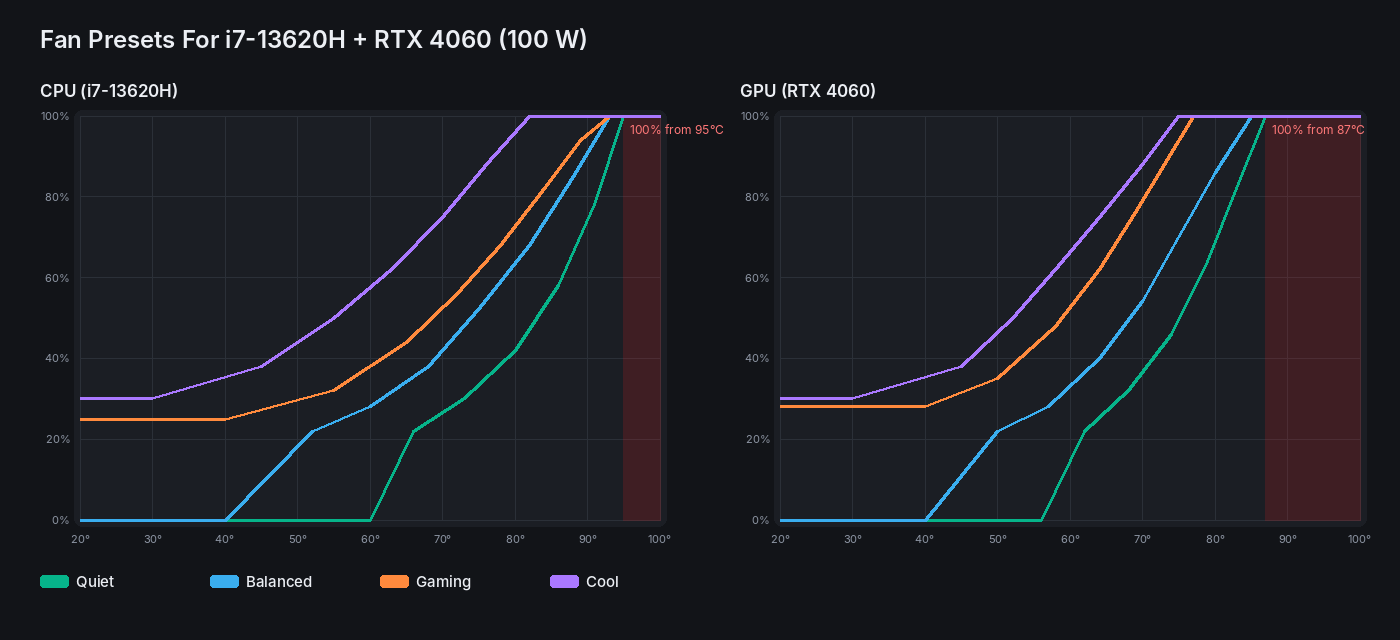
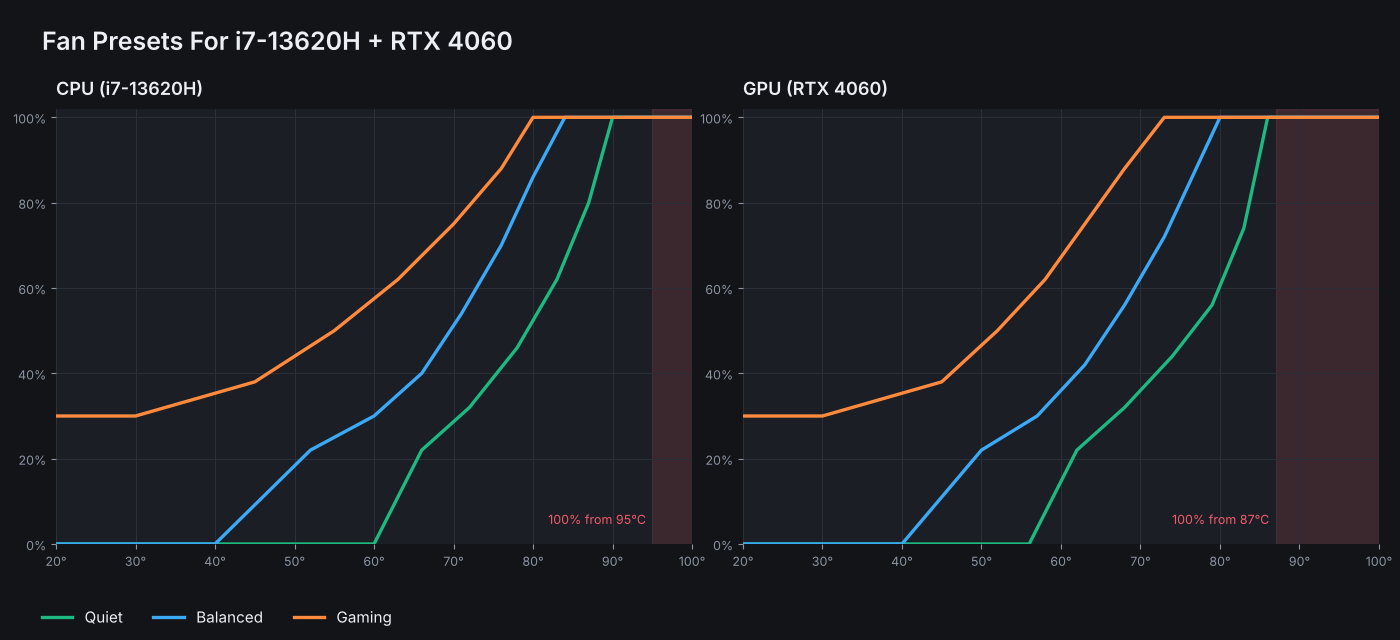
Retune the fan presets so the fans do the cooling before the BIOS cuts power
Measuring each power mode under full load showed where the laptop holds
its temperatures: Balanced keeps the CPU at exactly 87 °C by cutting its
power (from 81 W down to 35 W) because the stock fans stop at 68 %, and
the RTX 4060 throttles from 90 °C. Some presets only reached full speed
at or past those points, so the BIOS stepped in first and performance
dropped.

Every preset now reaches full speed a few degrees before the limit of
the power mode it's made for: Quiet from 90 °C CPU / 86 °C GPU and
Balanced from 84 °C / 80 °C. Both stay just as silent at idle and light
loads; only the top of the curves changed.

There are now three presets instead of four. Cool and Gaming behaved the
same under heavy load, both at full speed within the first minute, so
Cool's curve is now Gaming: always on and ramping early, which keeps
games that don't max the laptop out a few degrees cooler, with full
speed from 80 °C CPU / 73 °C GPU. For more than that, there's Maximum.

Curves you never edited move to the new presets by themselves (Cool
becomes Gaming); curves you changed are kept as they are.

The README and the preset chart are updated, with a table of what the
stock BIOS does in each power mode.

diff --git a/src/Hardware/FanCurve.cs b/src/Hardware/FanCurve.cs
@@ -9,34 +9,72 @@ public static class FanCurve
     public const int Points = 8;
     public const int MinTemp = 20, MaxTemp = 100;
 
-    // Tuned for the i7-13620H (TjMax 100 °C) and the RTX 4060 Laptop at ~100 W (throttles around 87 °C;
-    // holds full boost when kept under ~80 °C).
+    // Tuned for the i7-13620H (TjMax 100 °C) and the RTX 4060 Laptop (throttles from 90 °C), from measurements of
+    // what the BIOS does in each power mode under full load. Every preset reaches full speed a few degrees below the
+    // limit of the power mode it belongs to, so the fans do the cooling before the BIOS has to cut power:
+    //   Turbo     CPU held at ~98 °C          -> Gaming:   100 % from 80 °C CPU / 73 °C GPU, a little ahead of the BIOS
+    //   Balanced  CPU held at exactly 87 °C   -> Balanced: 100 % from 84 °C CPU / 80 °C GPU
+    //   Quiet, Power Saving  CPU limited to 15 W, GPU 70 W -> Quiet: silent until ~60 °C, 100 % from 90 °C CPU / 86 °C GPU
 
-    /// <summary>Above this the fan runs at 100 % whatever the curve says: CPU 95 °C (TjMax 100), GPU 87 °C (throttle point).</summary>
+    /// <summary>Above this the fan runs at 100 % whatever the curve says: CPU 95 °C (TjMax 100), GPU 87 °C (throttles from 90).</summary>
     public const int SafetyCpu = 95, SafetyGpu = 87;
 
     /// <summary>Below this a fan may not start reliably, so non-zero targets are raised to it.</summary>
     public const int MinSpin = 20;
 
-    public static readonly string[] PresetNames = { "Quiet", "Balanced", "Gaming", "Cool" };
+    public static readonly string[] PresetNames = { "Quiet", "Balanced", "Gaming" };
 
     public static CurvePoint[] Preset(string name, bool gpu) => (name, gpu) switch
     {
-        // Quiet: fans off until ~60 °C, lets the chips run warm (the CPU is fine into the 90s).
+        // Quiet: fans off until ~60 °C, gentle through the middle, full speed before the GPU gets near its throttle point.
+        ("Quiet", false) => Make((50, 0), (60, 0), (66, 22), (72, 32), (78, 46), (83, 62), (87, 80), (90, 100)),
+        ("Quiet", true) => Make((48, 0), (56, 0), (62, 22), (68, 32), (74, 44), (79, 56), (83, 74), (86, 100)),
+        // Gaming: always on and ramping early, so games that don't max the laptop out still run a few degrees cooler
+        // (and boost higher); full speed from 80 °C CPU / 73 °C GPU, well before the 4060 throttles.
+        ("Gaming", false) => Make((30, 30), (45, 38), (55, 50), (63, 62), (70, 75), (76, 88), (80, 100), (88, 100)),
+        ("Gaming", true) => Make((30, 30), (45, 38), (52, 50), (58, 62), (63, 75), (68, 88), (73, 100), (80, 100)),
+        // Balanced: silent at idle, steady ramp, full speed from 84 °C so the CPU stays under Balanced's 87 °C limit.
+        (_, false) => Make((40, 0), (52, 22), (60, 30), (66, 40), (71, 54), (76, 70), (80, 86), (84, 100)),
+        (_, true) => Make((40, 0), (50, 22), (57, 30), (63, 42), (68, 56), (73, 72), (77, 88), (80, 100)),
+    };
+
+    private static CurvePoint[] Make(params (int T, int D)[] p) => p.Select(x => new CurvePoint(x.T, x.D)).ToArray();
+
+    /// <summary>The presets as they were before v1.0.9, to recognise curves nobody edited and move them to the new ones.</summary>
+    private static CurvePoint[] OldPreset(string name, bool gpu) => (name, gpu) switch
+    {
         ("Quiet", false) => Make((50, 0), (60, 0), (66, 22), (73, 30), (80, 42), (86, 58), (91, 78), (95, 100)),
         ("Quiet", true) => Make((48, 0), (56, 0), (62, 22), (68, 32), (74, 46), (79, 64), (83, 82), (87, 100)),
-        // Gaming: GPU kept under ~78 °C so the 4060 holds its 100 W boost; CPU moderate.
         ("Gaming", false) => Make((40, 25), (55, 32), (65, 44), (72, 56), (78, 68), (84, 82), (89, 94), (93, 100)),
         ("Gaming", true) => Make((40, 28), (50, 35), (58, 48), (64, 62), (69, 76), (73, 88), (77, 100), (85, 100)),
-        // Cool: always on, maximum cooling for long renders / hot rooms.
         ("Cool", false) => Make((30, 30), (45, 38), (55, 50), (63, 62), (70, 75), (76, 88), (82, 100), (88, 100)),
         ("Cool", true) => Make((30, 30), (45, 38), (52, 50), (58, 62), (64, 75), (70, 88), (75, 100), (80, 100)),
-        // Balanced: silent at idle, steady ramp, full speed just before the throttle points.
         (_, false) => Make((40, 0), (52, 22), (60, 28), (68, 38), (75, 52), (82, 68), (88, 85), (93, 100)),
         (_, true) => Make((40, 0), (50, 22), (57, 28), (64, 40), (70, 54), (75, 70), (80, 86), (85, 100)),
     };
 
-    private static CurvePoint[] Make(params (int T, int D)[] p) => p.Select(x => new CurvePoint(x.T, x.D)).ToArray();
+    /// <summary>
+    /// Moves a saved curve set to the current presets. A curve still exactly as an older version's preset (nobody
+    /// edited it) becomes the current version of that preset; the old Cool preset became Gaming. Anything the user
+    /// changed is kept as it is, and an edited Cool curve is kept as a custom curve.
+    /// </summary>
+    public static void Upgrade(FanCurveSet set)
+    {
+        if (set?.Preset is not ("Quiet" or "Balanced" or "Gaming" or "Cool")) return;
+        string now = set.Preset == "Cool" ? "Gaming" : set.Preset;
+        bool untouched = set.Cpu != null && set.Gpu != null &&
+                         set.Cpu.SequenceEqual(OldPreset(set.Preset, false)) && set.Gpu.SequenceEqual(OldPreset(set.Preset, true));
+        if (untouched)
+        {
+            set.Cpu = Preset(now, gpu: false);
+            set.Gpu = Preset(now, gpu: true);
+            set.Preset = now;
+        }
+        else if (set.Preset == "Cool")
+        {
+            set.Preset = "Custom";
+        }
+    }
 
     /// <summary>Linear interpolation between points; flat before the first and after the last.</summary>
     public static int Evaluate(IReadOnlyList<CurvePoint> curve, int temp)

diff --git a/src/Settings.cs b/src/Settings.cs
@@ -98,6 +98,7 @@ public static class Settings
                     ? new FanCurveSet { Cpu = s.FanCurveCpu, Gpu = s.FanCurveGpu, Preset = s.FanPreset ?? "Custom" }
                     : FanCurveSet.Default(mode);
             }
+            FanCurve.Upgrade(set);
             set.Cpu = FanCurve.Sanitize(set.Cpu, gpu: false);
             set.Gpu = FanCurve.Sanitize(set.Gpu, gpu: true);
             s.FanCurves[mode] = set;

diff --git a/README.md b/README.md
@@ -68,14 +68,26 @@ Small and lightweight alternative to the vendor **Control Center** for the **Col
 
 ### 🌀 Fan Curves
 
-Pick **Custom** in the Fans row, then **Edit Curves**. Each power mode has its own CPU and GPU curve (8 points, drag to edit), with presets tuned for the i7-13620H (TjMax 100 °C) and the RTX 4060 Laptop at 100 W (throttles around 87 °C):
+Pick **Custom** in the Fans row, then **Edit Curves**. Each power mode has its own CPU and GPU curve (8 points, drag to edit). The presets are tuned for the i7-13620H (TjMax 100 °C) and the RTX 4060 Laptop (throttles from 90 °C), from measuring what the BIOS does in each power mode under full load. Each one reaches full speed a few degrees **before** the limit of the power mode it's made for, so the fans do the cooling instead of the BIOS cutting power:
 
-| Preset | CPU | GPU | Use |
+| Preset | Default for | CPU | GPU | Use |
+|---|---|---|---|---|
+| **Quiet** | Quiet, Power Saving | off until 60 °C, full speed by 90 °C | off until ~56 °C, full speed by 86 °C | browsing, light work |
+| **Balanced** | Balanced | off until 40 °C, full speed by 84 °C | full speed by 80 °C | everyday; Balanced holds the CPU at 87 °C, so the fans are at full speed before that |
+| **Gaming** | Turbo | 30 % minimum, full speed by 80 °C | 30 % minimum, full speed by 73 °C | gaming, long renders; ramps early so games that don't max the laptop out still run cooler, and the GPU stays well clear of its 90 °C throttle point |
+
+For more than Gaming, pick **Maximum** in the Fans row.
+
+What the stock BIOS does with the fans on **Automatic** (measured with a full CPU + GPU load):
+
+| Power Mode | Fans | CPU | GPU |
 |---|---|---|---|
-| **Quiet** | off until 60 °C | off until ~56 °C | browsing, light work |
-| **Balanced** | off until 40 °C, steady ramp | full speed by 85 °C | everyday |
-| **Gaming** | always on, moderate | full speed by 77 °C | keeps the GPU under ~78 °C so it holds its boost |
-| **Cool** | 30 % minimum | full speed by 75 °C | long renders, hot rooms |
+| **Turbo** | up to 100 % | ~52 W, held at ~98 °C | 100 W, throttles from 90 °C |
+| **Balanced** | stop at **68 %** | held at **87 °C** by cutting power (81 W → 35 W) | 70 W |
+| **Power Saving** | stop at 68 % | 15 W | 70 W |
+| **Quiet** | stop at **50 %** | 15 W | 70 W, up to 87 °C |
+
+With Custom curves in Balanced, the fans go past the stock 68 %, which keeps more CPU power and a cooler GPU under load, and they calm down much sooner after it.
 
 <img width="1000" alt="Fan presets" src="docs/fan-presets.png" />
 
